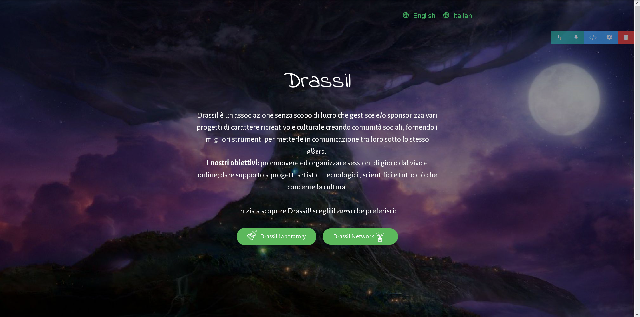
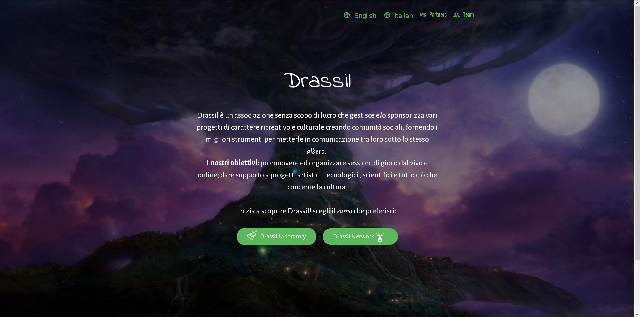
updates

Changed region(s): [[0.8438, 0.0852, 1.0, 0.142], [0.5312, 0.0284, 0.75, 0.0568]]

diff --git a/index-it.html b/index-it.html
@@ -13,8 +13,8 @@
   <link rel="stylesheet" href="https://fonts.googleapis.com/css?family=Alegreya+Sans:400,700&subset=latin,vietnamese,latin-ext">
   <link rel="stylesheet" href="assets/font-awesome/css/font-awesome.min.css">
   <link rel="stylesheet" href="assets/bootstrap-material-design-font/css/material.css">
-  <link rel="stylesheet" href="assets/linecons/style.css">
   <link rel="stylesheet" href="assets/icon54/style.css">
+  <link rel="stylesheet" href="assets/linecons/style.css">
   <link rel="stylesheet" href="assets/icon54-v2/style.css">
   <link rel="stylesheet" href="assets/tether/tether.min.css">
   <link rel="stylesheet" href="assets/bootstrap/css/bootstrap.min.css">
@@ -42,7 +42,7 @@
 
             
 
-            <ul class="nav navbar-nav pull-xs-right"><li class="nav-item"><a class="nav-link text-success" href="https://mobirise.com"><br></a></li> <li class="nav-item"><a class="nav-link text-success" href="index-en.html"><span class="mdi-action-language mbr-iconfont mbr-iconfont-btn-parent" style="color: rgb(65, 168, 95);">&nbsp;English</span></a></li> <li class="nav-item"><a class="nav-link text-success" href="index-it.html"><span class="mdi-action-language mbr-iconfont mbr-iconfont-btn-parent" style="color: rgb(65, 168, 95);">&nbsp;Italian</span></a></li> <li class="nav-item"><a class="nav-link text-success" href="index-it.html"></a></li> <li class="nav-item"><a class="nav-link text-success" href="index-it.html"></a></li> <li class="nav-item"><a class="nav-link text-success" href="index-it.html"></a></li><li class="nav-item"><a class="nav-link text-success" href="https://mobirise.com"></a></li></ul>
+            <ul class="nav navbar-nav pull-xs-right"><li class="nav-item"><a class="nav-link text-success" href="https://mobirise.com"><br></a></li> <li class="nav-item"><a class="nav-link text-success" href="index-en.html"><span class="mdi-action-language mbr-iconfont mbr-iconfont-btn-parent" style="color: rgb(65, 168, 95);">&nbsp;English</span></a></li> <li class="nav-item"><a class="nav-link text-success" href="index-it.html"><span class="mdi-action-language mbr-iconfont mbr-iconfont-btn-parent" style="color: rgb(65, 168, 95);">&nbsp;Italian</span></a></li> <li class="nav-item"><a class="nav-link text-success" href="pages/partners.html"><span class="icon54-handshake mbr-iconfont mbr-iconfont-btn-parent" style="color: rgb(65, 168, 95);"></span>Partners&nbsp;</a></li> <li class="nav-item"><a class="nav-link text-success" href="pages/team.html"><span class="mdi-social-people mbr-iconfont mbr-iconfont-btn-parent" style="color: rgb(65, 168, 95);"></span> Team</a></li>  <li class="nav-item"><a class="nav-link text-success" href="index-it.html"></a></li> <li class="nav-item"><a class="nav-link text-success" href="index-it.html"></a></li> <li class="nav-item"><a class="nav-link text-success" href="index-it.html"></a></li><li class="nav-item"><a class="nav-link text-success" href="https://mobirise.com"></a></li></ul>
         </div>
     </div>
 </nav>

diff --git a/index-en.html b/index-en.html
@@ -11,10 +11,10 @@
   
   <link rel="stylesheet" href="https://fonts.googleapis.com/css?family=Playfair+Display:400,700&subset=latin,cyrillic">
   <link rel="stylesheet" href="https://fonts.googleapis.com/css?family=Alegreya+Sans:400,700&subset=latin,vietnamese,latin-ext">
-  <link rel="stylesheet" href="assets/bootstrap-material-design-font/css/material.css">
   <link rel="stylesheet" href="assets/font-awesome/css/font-awesome.min.css">
-  <link rel="stylesheet" href="assets/linecons/style.css">
+  <link rel="stylesheet" href="assets/bootstrap-material-design-font/css/material.css">
   <link rel="stylesheet" href="assets/icon54/style.css">
+  <link rel="stylesheet" href="assets/linecons/style.css">
   <link rel="stylesheet" href="assets/icon54-v2/style.css">
   <link rel="stylesheet" href="assets/tether/tether.min.css">
   <link rel="stylesheet" href="assets/bootstrap/css/bootstrap.min.css">
@@ -42,7 +42,7 @@
 
             
 
-            <ul class="nav navbar-nav pull-xs-right"><li class="nav-item"><a class="nav-link text-success" href="https://mobirise.com"><br></a></li> <li class="nav-item"><a class="nav-link text-success" href="index-en.html"><span class="mdi-action-language mbr-iconfont mbr-iconfont-btn-parent" style="color: rgb(65, 168, 95);">&nbsp;English</span></a></li> <li class="nav-item"><a class="nav-link text-success" href="index-it.html"><span class="mdi-action-language mbr-iconfont mbr-iconfont-btn-parent" style="color: rgb(65, 168, 95);">&nbsp;Italian</span></a></li><li class="nav-item"><a class="nav-link text-success" href="https://mobirise.com"></a></li></ul>
+            <ul class="nav navbar-nav pull-xs-right"><li class="nav-item"><a class="nav-link text-success" href="https://mobirise.com"><br></a></li> <li class="nav-item"><a class="nav-link text-success" href="index-en.html"><span class="mdi-action-language mbr-iconfont mbr-iconfont-btn-parent" style="color: rgb(65, 168, 95);">&nbsp;English</span></a></li> <li class="nav-item"><a class="nav-link text-success" href="index-it.html"><span class="mdi-action-language mbr-iconfont mbr-iconfont-btn-parent" style="color: rgb(65, 168, 95);">&nbsp;Italian</span></a></li> <li class="nav-item"><a class="nav-link text-success" href="pages/partners.html"><span class="icon54-handshake mbr-iconfont mbr-iconfont-btn-parent" style="color: rgb(65, 168, 95);"></span>Partners&nbsp;</a></li> <li class="nav-item"><a class="nav-link text-success" href="pages/team.html"><span class="mdi-social-people mbr-iconfont mbr-iconfont-btn-parent" style="color: rgb(65, 168, 95);"></span> Team</a></li>  <li class="nav-item"><a class="nav-link text-success" href="index-it.html"></a></li> <li class="nav-item"><a class="nav-link text-success" href="index-it.html"></a></li> <li class="nav-item"><a class="nav-link text-success" href="index-it.html"></a></li><li class="nav-item"><a class="nav-link text-success" href="https://mobirise.com"></a></li></ul>
         </div>
     </div>
 </nav>

diff --git a/assets/mobirise/css/mbr-additional.css b/assets/mobirise/css/mbr-additional.css
@@ -27,6 +27,7 @@
 
 
 
+
 #header1-0 H1 {
   color: #ffffff;
   font-family: 'Indie Flower', cursive;
@@ -43,6 +44,9 @@
   font-family: 'Oswald', sans-serif;
 }
 #menu-1 .nav-link {
+  font-family: 'Oswald', sans-serif;
+}
+#menu-1 .nav-link SPAN {
   font-family: 'Oswald', sans-serif;
 }
 
